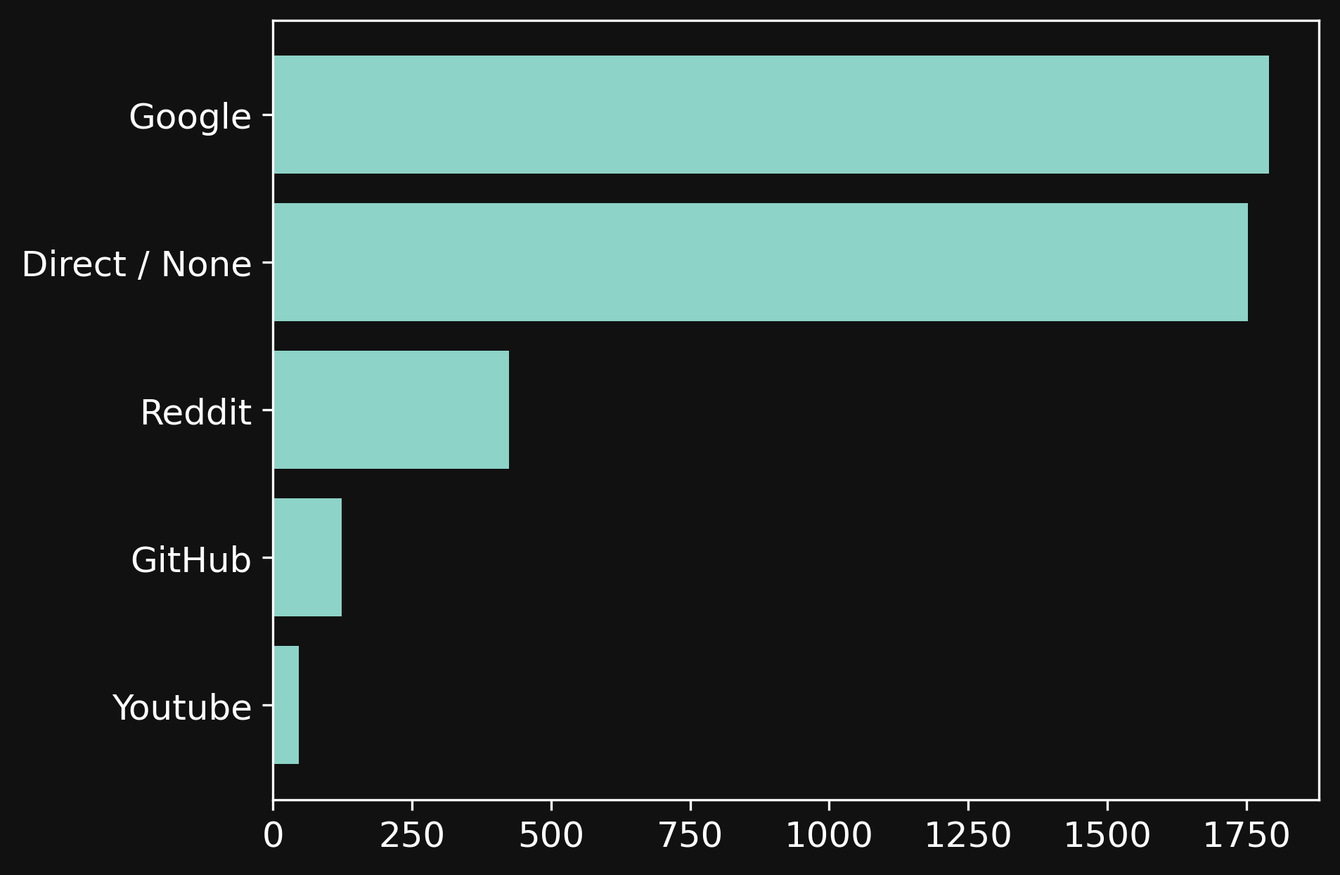
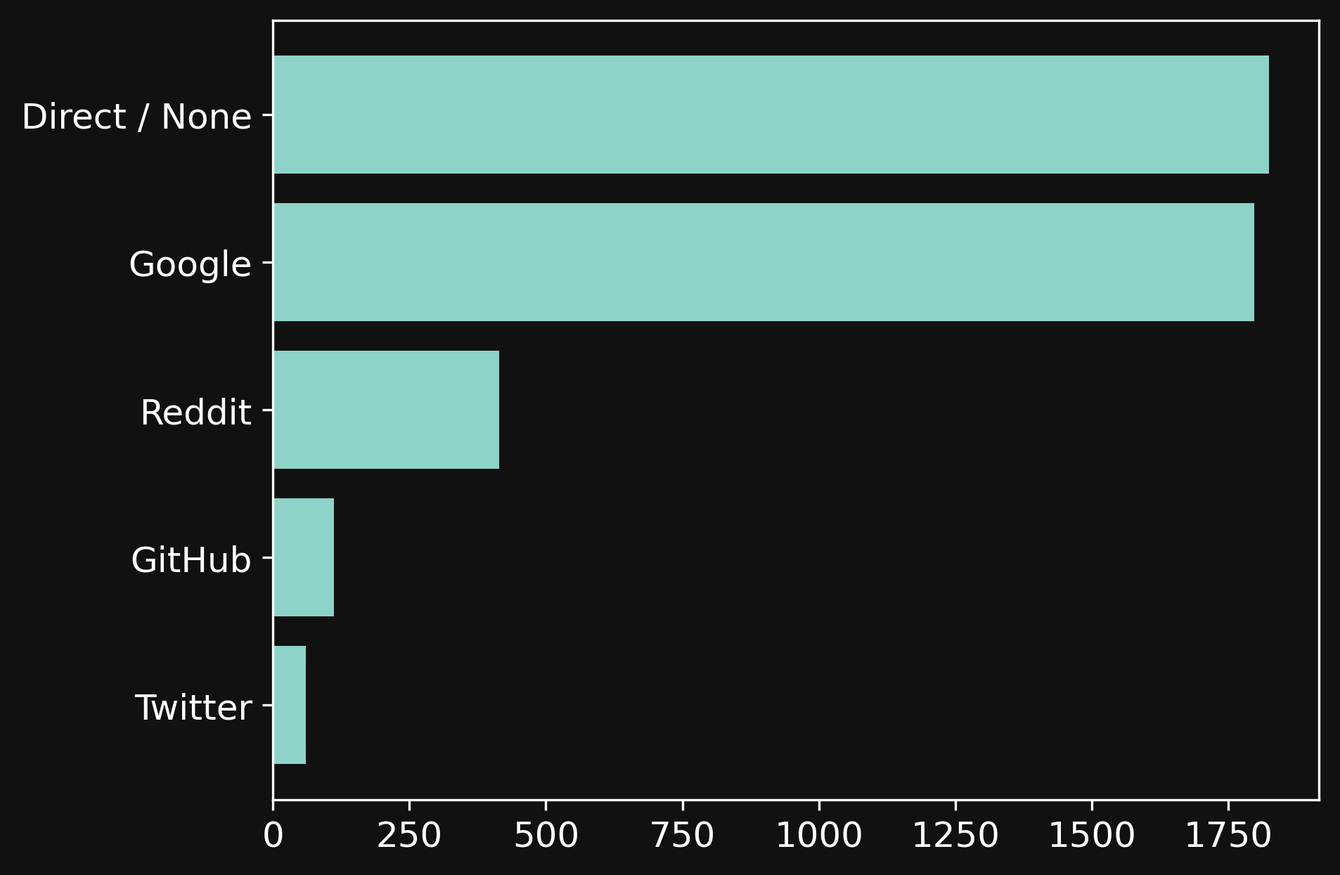
deploy: 194e06df29a75530cbd25c3b88f477b06a4fee5e

diff --git a/about/index.html b/about/index.html
@@ -1,4 +1,4 @@
-<!doctype html><html lang=en dir=auto><head><meta charset=utf-8><meta http-equiv=x-ua-compatible content="IE=edge"><meta name=viewport content="width=device-width,initial-scale=1,shrink-to-fit=no"><meta name=robots content="index, follow"><title>About | Navendu Pottekkat</title><meta name=keywords content><meta name=description content="About Navendu Pottekkat and his blog."><meta name=author content="Navendu Pottekkat"><link rel=canonical href=https://navendu.me/about/><script defer data-domain=navendu.me src=/misc/js/script.js data-api=/misc/api/event></script><script>window.plausible=window.plausible||function(){(window.plausible.q=window.plausible.q||[]).push(arguments)}</script><script></script><link crossorigin=anonymous href=/assets/css/stylesheet.66e3e513d75c2ff303648a5691fa6787b3c8f1dc4b3307618713a4dc494f0696.css integrity="sha256-ZuPlE9dcL/MDZIpWkfpnh7PI8dxLMwdhhxOk3ElPBpY=" rel="preload stylesheet" as=style><script src=https://ajax.googleapis.com/ajax/libs/jquery/3.5.1/jquery.min.js></script><script defer crossorigin=anonymous src=/assets/js/highlight.f413e19d0714851f6474e7ee9632408e58ac146fbdbe62747134bea2fa3415e0.js integrity="sha256-9BPhnQcUhR9kdOfuljJAjlisFG+9vmJ0cTS+ovo0FeA=" onload=hljs.initHighlightingOnLoad()></script><link rel=icon href=https://navendu.me/favicon.ico><link rel=icon type=image/png sizes=16x16 href=https://navendu.me/favicon-16x16.png><link rel=icon type=image/png sizes=32x32 href=https://navendu.me/favicon-32x32.png><link rel=apple-touch-icon href=https://navendu.me/apple-touch-icon.png><link rel=mask-icon href=https://navendu.me/safari-pinned-tab.svg><meta name=theme-color content="#2e2e33"><meta name=msapplication-TileColor content="#2e2e33"><noscript><style>#theme-toggle,.top-link{display:none}</style></noscript><meta property="og:title" content="About"><meta property="og:description" content="About Navendu Pottekkat and his blog."><meta property="og:type" content="article"><meta property="og:url" content="https://navendu.me/about/"><meta property="og:image" content="https://navendu.me/images/preview.png"><meta property="article:section" content><meta property="article:modified_time" content="2023-07-25T11:32:13+05:30"><meta property="og:site_name" content="Navendu Pottekkat"><meta name=twitter:card content="summary_large_image"><meta name=twitter:image content="https://navendu.me/images/preview.png"><meta name=twitter:title content="About"><meta name=twitter:description content="About Navendu Pottekkat and his blog."><script type=application/ld+json>{"@context":"https://schema.org","@type":"BreadcrumbList","itemListElement":[{"@type":"ListItem","position":1,"name":"About","item":"https://navendu.me/about/"}]}</script><script type=application/ld+json>{"@context":"https://schema.org","@type":"BlogPosting","headline":"About","name":"About","description":"About Navendu Pottekkat and his blog.","keywords":[],"articleBody":"About This Blog /stats\nThis blog is a window into my world as an open source maintainer and an amateur policy analyst.\nI write about a wide range of topics, from in-depth tutorials for projects that keep me up at night to the goals in life that keep me inspired.\nI also try to write daily, but fair warning: I don’t stop to edit these.\nUnless mentioned otherwise, all material in this blog is licensed under CC BY-SA 4.0, and the source code of this website is available under the MIT license.\nEthics Statement I don’t accept any form of payment to write about a product or a company. The products I write about are the ones I work on and/or believe in strongly.\nI use analytics to help me learn and improve my future articles. This blog uses Plausible Analytics and does not collect personal data or personally identifiable information.\nAbout Me I work full-time in maintaining Apache APISIX. Formerly, I maintained two CNCF projects.\nI work primarily on cloud native/Kubernetes, API gateways, and service meshes. I write and occasionally give talks (what am I doing now?).\nThe lines between my work and personal life are blurry, but outside of this, I enjoy reading, playing my bass, and riding my motorcycles. If you want to know more about me, here’s my story.\nTravel I have been traveling a lot for work and pleasure lately. The only reason I haven’t traveled more in the last few years is because my passport sucks. It takes a lot of effort to apply for a visa, and I’m under a lot of stress after I submit my visa application, waiting to know if I can travel.\nMy European, American, and Singaporean friends have relentlessly heard me rant about this. I don’t plan to stop because it is the most limiting thing in the modern world and probably one of the only reasons I envy people in rich countries with better passports.\nStill, I have traveled to all these countries, and I plan to keep traveling: 🇸🇬 🇨🇳 🇦🇪 🇱🇰 🇮🇪 🇧🇭 🇲🇾\nI have yet to go to a lot of places in India (next year 🤞). And I have traveled to all districts in Kerala.\nContact You can reach out to me at navendu@apache.org\nGPG Key To encrypt messages, please use my public key:\n-----BEGIN PGP PUBLIC KEY BLOCK----- mQINBGNGjG8BEADiEYqEeEWqs5/qvHGI2sGYI1y0FL5ctCUzDUjeo1pyWbT038AC jT1ni3bp9s3eP883sU08f0MyP0jilPq2DLj4lb26RTRQSxEo2c33Jj2JO/+hBP5h mEbhEa/gxzyF7RLbN0ZgtbAQVPoqxjyESvTUIQ+FvKH6eeeLktwxtdvgxuNCHOAt i5vFN48DkBdXzpCGgpo4wwFCwD+uT6jYWN33+vj3fRhvZqHrRmB1ZP7D1YpPEuE3 48cAiv3SdEtAfB7aVNNRKSDonoge2ad0aNL4hwfLgO2rOcV66vv5MdJ0QKjDOee9 SN4KcuszjtRbPClBtu/LI0gesZ3tt+EZKoAWGlQ3ythALed2t3z+yivV0XssfG/x wYTpXDzuZHjEP8v2MSI4RGEhSS06JHLt0G2CuyxBFieAq5NAozivH7n9w9ipIURo y3/1jigowGcLgrEbjsHGyou/eTtq2/G1ihvN1Oh9VcF05P3Z42vC0Yz9PqT9j+ZZ PXfE09u+1PJWWd80WF9DPSDYcrM58iP4uEDxvT61+b299bTksUQ4tcWeXYnvvOEc mZ2FoSrx6d9bIGnzk8g/77fetHR0vPY1+RvlJgG7vGPF0qhNiacubRqhW4RlcjQe HhkzAw2kQA7M8c6I1JbDaq5iAKfl8PDyEdgZ5dUFSg1/AP2EKOH8RDvUFwARAQAB tDdOYXZlbmR1IFBvdHRla2thdCAoR2l0SHViIGdwZyBrZXkpIDxuYXZlbmR1QGFw YWNoZS5vcmc+iQJRBBMBCAA7FiEEKdXqLnhjBRbrljSY8tOzMEmkVR0FAmNGjG8C GwMFCwkIBwICIgIGFQoJCAsCBBYCAwECHgcCF4AACgkQ8tOzMEmkVR0mWw/6AsTr kZbHgrUIYoo+a6aXLU68dpBSEGcpT5gGyhSLuhFMpKxuI2LDSZX/GwKXy1l27z5t xrLParTB2L5o+9/W8TYI1ukejod90RINLwl4PTnO5pizrF9pfgJD9BK6YGuVErJZ 8B8CX7XOQas25b7fFgKW3svRD8ac6gVF+ncWXc1KkJ67oIccTClIv+mvrZOVrgj8 xZ+UqYc3eoYC197Eaul2BuxrhMekkWOvaidbt65xJjhf0DATMy9AGJPk3L+P0LAH 0L9eJjnQsTwWRrO2PlcFlpMOObnlSGflH4mY+YHjqTKK7nL4t8w7oIV6Z8K3Xjj0 V8VSPM+I81hj4dSN9WDPPJPixOvulkC8MFzYCh9SNDMIVsBCOjogEChbiXWEfhzu lqDKwmonPf8z4BwteR6JpBZEs4ZEhpQDHEK4/4KT609V2qSnndQodOlkqUm8MVbj 03D4XMBobnT+az12KyuT3fEcEdI4D/dOBQNvuTTMqXhQPMx7Ygv/koX3VSSKdpkm f/JXY6Pynol9ILwSW4k8aFvxP1EsosXbMRsACQvsJHbYVXy2vKtW/yj4PUB7om08 EtfoghczIBpvMLzHTJHFsG61GmbqWQsnGGUXygqfZDvbjAASIrxoXplqKztVRirw ZtiTto2Sze6aWDXbedw5bOZTQMcwl732t86Ogae5Ag0EY0aMbwEQANuqc4xwhIAI Ke4R/9ePydC9bU7EKul2ea3KwEuCvU+i6Q/bLMBingLnrzyEISi1qh/dUGM9t24y jyOfkvBYgOXDndtpcxK7+nT3m/BJwqTWXNXvQwG6pCSvXRlnLf29UVK8b2ypMvMC yCoDNkTilb+ut/zCHT8pqRg0hmpr6wwdOQSQJFmr8W0JEOy77kP4qNKdQNFOtjsA s6NQbVZcBlKkyhIk7TV/iXZYv9f7ew2afzfT0uD8bpDO6r1OMsgMJOZRNkYWhFVZ YdAaDwts6CCeQ0iYZ9DdCX5akPdUD9am02TMf0aS0pF06tp16s5YixTDk0+C7JXj meZiWLTJxj3b7ExxibkchN1GWKPbBp3vTeKK9t3BDRri1pevWM97z6BDK3Ek7i7x /uSO2pu6WtK3NKmlXwibdsZfo9wESMpfOVQyl3tj2RX2DQOx6kDSqPHce56GVF0/ 9IZfWP+mQthgpTnlQCUJ4mA7jB2Ui7VHPSBVx58OZxPdsr55r0f6S5fjbAyXNkuB xiUvUJdzyKLtQX3iUUR6wgzdW5t2eqm4lUnz+UzmJFqXdCbPHLlMQjvEXTM2tVVM yyWxtcOAfTgXLHDcAMyqFP5HiXt8TrF3z2wQssd5l7+UEJSQOAxrg8c1sicBwjcE gJboaPCbjIKj+yZP8bjUU6cUC9FbiiJFABEBAAGJAjYEGAEIACAWIQQp1eoueGMF FuuWNJjy07MwSaRVHQUCY0aMbwIbDAAKCRDy07MwSaRVHdI6D/9KQhe9flUXo1fD B3RUHdbsAmocj50M6J1X7Ge5EmhfXUtTKJIdZk+rnLebOBW9EZ9xF4zKyWvMOEjP VQwhbGd/fXXtF17pM9Kpg77MP1ukMUZufNtm7Bzp5/gaeWGgby9YmMeoplK3+Dpu AMHiKtQ7johAKrBKduvrbXIaeLAMNUAMKu9XKh75j2tPF7x7Kw77BKCgixMiQv4B tW9Pwoy6R+jhLu0EKa+reIBpW9+xpR06Bepww+ZD2Tya/y4uzYIm3x1UubambFCl fNLOLQpyz+vvoiRJUED67ta7OpI9VK4YDX9qPjvOEM6+lUvaFc6at5Sqnfjofdsa DCKb66Nb9WDEMruOMRGg2uEVljpr9cVo8JSsayXZNKbs7kia5576ufPrRajtTRP4 wECnfiKde/DwIQoNlokro4Tmi/Y9310bwU9XBxtFJvif6+Bh8cbfPkh+YjpnJt6+ G6z1RZc35yEd8AgHStI6IJYlNyPy8MKobxXWKAILlsYcMZG+DEBKojpkp2booQw7 j2d8fYgrLs/zwPpaT3kDotia1RioKUBCbLxMseZGzgAyiR4eQKzw4JLdkGDR+48b YC/jf5p6RBG+YXDICliVDL/ap9iyGAbggpaIWa0Wc8smWu3Ub0DVhxtzKRRuNmWt pbi1/RzPqocmwMes4lBDig1uSDpGwg== =ah6a -----END PGP PUBLIC KEY BLOCK----- You can verify my public key using my fingerprint:\n29D5 EA2E 7863 0516 EB96 3498 F2D3 B330 49A4 551D ","wordCount":"470","inLanguage":"en","datePublished":"0001-01-01T00:00:00Z","dateModified":"2023-07-25T11:32:13+05:30","author":{"@type":"Person","name":"Navendu Pottekkat"},"mainEntityOfPage":{"@type":"WebPage","@id":"https://navendu.me/about/"},"publisher":{"@type":"Person","name":"Navendu Pottekkat","logo":{"@type":"ImageObject","url":"https://navendu.me/favicon.ico"}}}</script></head><body class=dark id=top><header class=header><nav class=nav><div class=logo><a href=https://navendu.me/ accesskey=h title="Navendu Pottekkat (Alt + H)">Navendu Pottekkat</a><div class=logo-switches></div></div><ul id=menu><li><a href=https://navendu.me/archives/ title=Archives><span>Archives</span></a></li><li><a href=https://navendu.me/categories/ title=Categories><span>Categories</span></a></li><li><a href=https://navendu.me/categories/daily-dose-of-pottekkat/ title="Daily Logs"><span>Daily Logs</span></a></li><li><a href=https://navendu.me/about/ title=About><span class=active>About</span></a></li><li><a href=https://navendu.me/subscribe/ title=Subscribe><span>Subscribe</span></a></li></ul></nav></header><main class=main><article class=post-single><header class=post-header><h1 class=post-title>About</h1></header><div class=post-content><h2 id=about-this-blog>About This Blog<a hidden class=anchor aria-hidden=true href=#about-this-blog>#</a></h2><p><a href=/stats/>/stats</a></p><p>This blog is a window into my world as an open source maintainer and an amateur policy analyst.</p><p>I write about a <a href=/categories/>wide range of topics</a>, from in-depth <a href=/tags/apache-apisix/>tutorials for projects</a> that keep me up at night to the <a href=/tags/life/>goals in life</a> that keep me inspired.</p><p>I also try to <a href=/categories/daily-dose-of-pottekkat/>write daily</a>, but fair warning: I don&rsquo;t stop to edit these.</p><p>Unless mentioned otherwise, all material in this blog is licensed under <a href=http://creativecommons.org/licenses/by-sa/4.0 target=_blank>CC BY-SA 4.0</a>, and the <a href=https://github.com/navendu-pottekkat/navendu-pottekkat.github.io target=_blank>source code</a> of this website is available under the <a href=https://github.com/navendu-pottekkat/navendu-pottekkat.github.io/blob/hugo/LICENSE target=_blank>MIT license</a>.</p><h3 id=ethics-statement>Ethics Statement<a hidden class=anchor aria-hidden=true href=#ethics-statement>#</a></h3><p>I don&rsquo;t accept any form of payment to write about a product or a company. The products I write about are the ones I work on and/or believe in strongly.</p><p>I use <a href=/stats/>analytics</a> to help me learn and improve my future articles. This blog uses <a href=https://plausible.io/privacy-focused-web-analytics target=_blank>Plausible Analytics</a> and does not collect personal data or personally identifiable information.</p><h2 id=about-me>About Me<a hidden class=anchor aria-hidden=true href=#about-me>#</a></h2><p>I work full-time in maintaining <a href=https://github.com/apache/apisix target=_blank>Apache APISIX</a>. Formerly, I maintained two <a href=https://en.wikipedia.org/wiki/Cloud_Native_Computing_Foundation target=_blank>CNCF</a> projects.</p><p>I work primarily on cloud native/Kubernetes, API gateways, and service meshes. I <a href=/categories/featured/>write</a> and occasionally give <a href="https://youtube.com/playlist?list=PLUVkO7d15olRgs1rU6scvszk0DB5HxKdu" target=_blank>talks</a> (<a href=/now/>what am I doing now?</a>).</p><p>The lines between my work and personal life are blurry, but outside of this, I enjoy reading, playing my bass, and riding my motorcycles. If you want to know more about me, here&rsquo;s <a href=/story/>my story</a>.</p><h3 id=travel>Travel<a hidden class=anchor aria-hidden=true href=#travel>#</a></h3><p>I have been traveling a lot for work and pleasure lately. The only reason I haven&rsquo;t traveled more in the last few years is because my passport sucks. It takes a lot of effort to apply for a visa, and I&rsquo;m under a lot of stress after I submit my visa application, waiting to know if I can travel.</p><p>My European, American, and Singaporean friends have relentlessly heard me rant about this. I don&rsquo;t plan to stop because it is the most limiting thing in the modern world and probably one of the only reasons I envy people in rich countries with better passports.</p><p>Still, I have traveled to all these countries, and I plan to keep traveling: 🇸🇬 🇨🇳 🇦🇪 🇱🇰 🇮🇪 🇧🇭 🇲🇾</p><p>I have yet to go to a lot of places in India (next year 🤞). And I have traveled to all districts in Kerala.</p><h2 id=contact>Contact<a hidden class=anchor aria-hidden=true href=#contact>#</a></h2><p>You can reach out to me at <a href=mailto:navendu@apache.org>navendu@apache.org</a></p><h3 id=gpg-key>GPG Key<a hidden class=anchor aria-hidden=true href=#gpg-key>#</a></h3><p>To encrypt messages, please use my public key:</p><div class=highlight><pre style=color:#f8f8f2;background-color:#272822;-moz-tab-size:4;-o-tab-size:4;tab-size:4><code class=language-text data-lang=text>-----BEGIN PGP PUBLIC KEY BLOCK-----
+<!doctype html><html lang=en dir=auto><head><meta charset=utf-8><meta http-equiv=x-ua-compatible content="IE=edge"><meta name=viewport content="width=device-width,initial-scale=1,shrink-to-fit=no"><meta name=robots content="index, follow"><title>About | Navendu Pottekkat</title><meta name=keywords content><meta name=description content="About Navendu Pottekkat and his blog."><meta name=author content="Navendu Pottekkat"><link rel=canonical href=https://navendu.me/about/><script defer data-domain=navendu.me src=/misc/js/script.js data-api=/misc/api/event></script><script>window.plausible=window.plausible||function(){(window.plausible.q=window.plausible.q||[]).push(arguments)}</script><script></script><link crossorigin=anonymous href=/assets/css/stylesheet.66e3e513d75c2ff303648a5691fa6787b3c8f1dc4b3307618713a4dc494f0696.css integrity="sha256-ZuPlE9dcL/MDZIpWkfpnh7PI8dxLMwdhhxOk3ElPBpY=" rel="preload stylesheet" as=style><script src=https://ajax.googleapis.com/ajax/libs/jquery/3.5.1/jquery.min.js></script><script defer crossorigin=anonymous src=/assets/js/highlight.f413e19d0714851f6474e7ee9632408e58ac146fbdbe62747134bea2fa3415e0.js integrity="sha256-9BPhnQcUhR9kdOfuljJAjlisFG+9vmJ0cTS+ovo0FeA=" onload=hljs.initHighlightingOnLoad()></script><link rel=icon href=https://navendu.me/favicon.ico><link rel=icon type=image/png sizes=16x16 href=https://navendu.me/favicon-16x16.png><link rel=icon type=image/png sizes=32x32 href=https://navendu.me/favicon-32x32.png><link rel=apple-touch-icon href=https://navendu.me/apple-touch-icon.png><link rel=mask-icon href=https://navendu.me/safari-pinned-tab.svg><meta name=theme-color content="#2e2e33"><meta name=msapplication-TileColor content="#2e2e33"><noscript><style>#theme-toggle,.top-link{display:none}</style></noscript><meta property="og:title" content="About"><meta property="og:description" content="About Navendu Pottekkat and his blog."><meta property="og:type" content="article"><meta property="og:url" content="https://navendu.me/about/"><meta property="og:image" content="https://navendu.me/images/preview.png"><meta property="article:section" content><meta property="article:modified_time" content="2023-08-04T20:02:48+05:30"><meta property="og:site_name" content="Navendu Pottekkat"><meta name=twitter:card content="summary_large_image"><meta name=twitter:image content="https://navendu.me/images/preview.png"><meta name=twitter:title content="About"><meta name=twitter:description content="About Navendu Pottekkat and his blog."><script type=application/ld+json>{"@context":"https://schema.org","@type":"BreadcrumbList","itemListElement":[{"@type":"ListItem","position":1,"name":"About","item":"https://navendu.me/about/"}]}</script><script type=application/ld+json>{"@context":"https://schema.org","@type":"BlogPosting","headline":"About","name":"About","description":"About Navendu Pottekkat and his blog.","keywords":[],"articleBody":"About This Blog /stats\nThis blog is a window into my world as an open source maintainer and an amateur policy analyst.\nI write about a wide range of topics, from in-depth tutorials for projects that keep me up at night to the goals in life that keep me inspired.\nI also try to write daily, but fair warning: I don’t stop to edit these.\nUnless mentioned otherwise, all material in this blog is licensed under CC BY-SA 4.0, and the source code of this website is available under the MIT license.\nEthics Statement I don’t accept any form of payment to write about a product or a company. The products I write about are the ones I work on and/or believe in strongly.\nI use analytics to help me learn and improve my future articles. This blog uses Plausible Analytics and does not collect personal data or personally identifiable information.\nAbout Me I work full-time in maintaining Apache APISIX. Formerly, I maintained two CNCF projects.\nI work primarily on cloud native/Kubernetes, API gateways, and service meshes. I write and occasionally give talks (what am I doing now?).\nThe lines between my work and personal life are blurry, but outside of this, I enjoy reading, playing my bass, and riding my motorcycles. If you want to know more about me, here’s my story.\nTravel I have been traveling a lot for work and pleasure lately. The only reason I haven’t traveled more in the last few years is because my passport sucks. It takes a lot of effort to apply for a visa, and I’m under a lot of stress after I submit my visa application, waiting to know if I can travel.\nMy European, American, and Singaporean friends have relentlessly heard me rant about this. I don’t plan to stop because it is the most limiting thing in the modern world and probably one of the only reasons I envy people in rich countries with better passports.\nStill, I have traveled to all these countries, and I plan to keep traveling: 🇸🇬 🇨🇳 🇦🇪 🇱🇰 🇮🇪 🇧🇭 🇲🇾 🇹🇼\nI have yet to go to a lot of places in India (next year 🤞). And I have traveled to all districts in Kerala.\nContact You can reach out to me at navendu@apache.org\nGPG Key To encrypt messages, please use my public key:\n-----BEGIN PGP PUBLIC KEY BLOCK----- mQINBGNGjG8BEADiEYqEeEWqs5/qvHGI2sGYI1y0FL5ctCUzDUjeo1pyWbT038AC jT1ni3bp9s3eP883sU08f0MyP0jilPq2DLj4lb26RTRQSxEo2c33Jj2JO/+hBP5h mEbhEa/gxzyF7RLbN0ZgtbAQVPoqxjyESvTUIQ+FvKH6eeeLktwxtdvgxuNCHOAt i5vFN48DkBdXzpCGgpo4wwFCwD+uT6jYWN33+vj3fRhvZqHrRmB1ZP7D1YpPEuE3 48cAiv3SdEtAfB7aVNNRKSDonoge2ad0aNL4hwfLgO2rOcV66vv5MdJ0QKjDOee9 SN4KcuszjtRbPClBtu/LI0gesZ3tt+EZKoAWGlQ3ythALed2t3z+yivV0XssfG/x wYTpXDzuZHjEP8v2MSI4RGEhSS06JHLt0G2CuyxBFieAq5NAozivH7n9w9ipIURo y3/1jigowGcLgrEbjsHGyou/eTtq2/G1ihvN1Oh9VcF05P3Z42vC0Yz9PqT9j+ZZ PXfE09u+1PJWWd80WF9DPSDYcrM58iP4uEDxvT61+b299bTksUQ4tcWeXYnvvOEc mZ2FoSrx6d9bIGnzk8g/77fetHR0vPY1+RvlJgG7vGPF0qhNiacubRqhW4RlcjQe HhkzAw2kQA7M8c6I1JbDaq5iAKfl8PDyEdgZ5dUFSg1/AP2EKOH8RDvUFwARAQAB tDdOYXZlbmR1IFBvdHRla2thdCAoR2l0SHViIGdwZyBrZXkpIDxuYXZlbmR1QGFw YWNoZS5vcmc+iQJRBBMBCAA7FiEEKdXqLnhjBRbrljSY8tOzMEmkVR0FAmNGjG8C GwMFCwkIBwICIgIGFQoJCAsCBBYCAwECHgcCF4AACgkQ8tOzMEmkVR0mWw/6AsTr kZbHgrUIYoo+a6aXLU68dpBSEGcpT5gGyhSLuhFMpKxuI2LDSZX/GwKXy1l27z5t xrLParTB2L5o+9/W8TYI1ukejod90RINLwl4PTnO5pizrF9pfgJD9BK6YGuVErJZ 8B8CX7XOQas25b7fFgKW3svRD8ac6gVF+ncWXc1KkJ67oIccTClIv+mvrZOVrgj8 xZ+UqYc3eoYC197Eaul2BuxrhMekkWOvaidbt65xJjhf0DATMy9AGJPk3L+P0LAH 0L9eJjnQsTwWRrO2PlcFlpMOObnlSGflH4mY+YHjqTKK7nL4t8w7oIV6Z8K3Xjj0 V8VSPM+I81hj4dSN9WDPPJPixOvulkC8MFzYCh9SNDMIVsBCOjogEChbiXWEfhzu lqDKwmonPf8z4BwteR6JpBZEs4ZEhpQDHEK4/4KT609V2qSnndQodOlkqUm8MVbj 03D4XMBobnT+az12KyuT3fEcEdI4D/dOBQNvuTTMqXhQPMx7Ygv/koX3VSSKdpkm f/JXY6Pynol9ILwSW4k8aFvxP1EsosXbMRsACQvsJHbYVXy2vKtW/yj4PUB7om08 EtfoghczIBpvMLzHTJHFsG61GmbqWQsnGGUXygqfZDvbjAASIrxoXplqKztVRirw ZtiTto2Sze6aWDXbedw5bOZTQMcwl732t86Ogae5Ag0EY0aMbwEQANuqc4xwhIAI Ke4R/9ePydC9bU7EKul2ea3KwEuCvU+i6Q/bLMBingLnrzyEISi1qh/dUGM9t24y jyOfkvBYgOXDndtpcxK7+nT3m/BJwqTWXNXvQwG6pCSvXRlnLf29UVK8b2ypMvMC yCoDNkTilb+ut/zCHT8pqRg0hmpr6wwdOQSQJFmr8W0JEOy77kP4qNKdQNFOtjsA s6NQbVZcBlKkyhIk7TV/iXZYv9f7ew2afzfT0uD8bpDO6r1OMsgMJOZRNkYWhFVZ YdAaDwts6CCeQ0iYZ9DdCX5akPdUD9am02TMf0aS0pF06tp16s5YixTDk0+C7JXj meZiWLTJxj3b7ExxibkchN1GWKPbBp3vTeKK9t3BDRri1pevWM97z6BDK3Ek7i7x /uSO2pu6WtK3NKmlXwibdsZfo9wESMpfOVQyl3tj2RX2DQOx6kDSqPHce56GVF0/ 9IZfWP+mQthgpTnlQCUJ4mA7jB2Ui7VHPSBVx58OZxPdsr55r0f6S5fjbAyXNkuB xiUvUJdzyKLtQX3iUUR6wgzdW5t2eqm4lUnz+UzmJFqXdCbPHLlMQjvEXTM2tVVM yyWxtcOAfTgXLHDcAMyqFP5HiXt8TrF3z2wQssd5l7+UEJSQOAxrg8c1sicBwjcE gJboaPCbjIKj+yZP8bjUU6cUC9FbiiJFABEBAAGJAjYEGAEIACAWIQQp1eoueGMF FuuWNJjy07MwSaRVHQUCY0aMbwIbDAAKCRDy07MwSaRVHdI6D/9KQhe9flUXo1fD B3RUHdbsAmocj50M6J1X7Ge5EmhfXUtTKJIdZk+rnLebOBW9EZ9xF4zKyWvMOEjP VQwhbGd/fXXtF17pM9Kpg77MP1ukMUZufNtm7Bzp5/gaeWGgby9YmMeoplK3+Dpu AMHiKtQ7johAKrBKduvrbXIaeLAMNUAMKu9XKh75j2tPF7x7Kw77BKCgixMiQv4B tW9Pwoy6R+jhLu0EKa+reIBpW9+xpR06Bepww+ZD2Tya/y4uzYIm3x1UubambFCl fNLOLQpyz+vvoiRJUED67ta7OpI9VK4YDX9qPjvOEM6+lUvaFc6at5Sqnfjofdsa DCKb66Nb9WDEMruOMRGg2uEVljpr9cVo8JSsayXZNKbs7kia5576ufPrRajtTRP4 wECnfiKde/DwIQoNlokro4Tmi/Y9310bwU9XBxtFJvif6+Bh8cbfPkh+YjpnJt6+ G6z1RZc35yEd8AgHStI6IJYlNyPy8MKobxXWKAILlsYcMZG+DEBKojpkp2booQw7 j2d8fYgrLs/zwPpaT3kDotia1RioKUBCbLxMseZGzgAyiR4eQKzw4JLdkGDR+48b YC/jf5p6RBG+YXDICliVDL/ap9iyGAbggpaIWa0Wc8smWu3Ub0DVhxtzKRRuNmWt pbi1/RzPqocmwMes4lBDig1uSDpGwg== =ah6a -----END PGP PUBLIC KEY BLOCK----- You can verify my public key using my fingerprint:\n29D5 EA2E 7863 0516 EB96 3498 F2D3 B330 49A4 551D ","wordCount":"471","inLanguage":"en","datePublished":"0001-01-01T00:00:00Z","dateModified":"2023-08-04T20:02:48+05:30","author":{"@type":"Person","name":"Navendu Pottekkat"},"mainEntityOfPage":{"@type":"WebPage","@id":"https://navendu.me/about/"},"publisher":{"@type":"Person","name":"Navendu Pottekkat","logo":{"@type":"ImageObject","url":"https://navendu.me/favicon.ico"}}}</script></head><body class=dark id=top><header class=header><nav class=nav><div class=logo><a href=https://navendu.me/ accesskey=h title="Navendu Pottekkat (Alt + H)">Navendu Pottekkat</a><div class=logo-switches></div></div><ul id=menu><li><a href=https://navendu.me/archives/ title=Archives><span>Archives</span></a></li><li><a href=https://navendu.me/categories/ title=Categories><span>Categories</span></a></li><li><a href=https://navendu.me/categories/daily-dose-of-pottekkat/ title="Daily Logs"><span>Daily Logs</span></a></li><li><a href=https://navendu.me/about/ title=About><span class=active>About</span></a></li><li><a href=https://navendu.me/subscribe/ title=Subscribe><span>Subscribe</span></a></li></ul></nav></header><main class=main><article class=post-single><header class=post-header><h1 class=post-title>About</h1></header><div class=post-content><h2 id=about-this-blog>About This Blog<a hidden class=anchor aria-hidden=true href=#about-this-blog>#</a></h2><p><a href=/stats/>/stats</a></p><p>This blog is a window into my world as an open source maintainer and an amateur policy analyst.</p><p>I write about a <a href=/categories/>wide range of topics</a>, from in-depth <a href=/tags/apache-apisix/>tutorials for projects</a> that keep me up at night to the <a href=/tags/life/>goals in life</a> that keep me inspired.</p><p>I also try to <a href=/categories/daily-dose-of-pottekkat/>write daily</a>, but fair warning: I don&rsquo;t stop to edit these.</p><p>Unless mentioned otherwise, all material in this blog is licensed under <a href=http://creativecommons.org/licenses/by-sa/4.0 target=_blank>CC BY-SA 4.0</a>, and the <a href=https://github.com/navendu-pottekkat/navendu-pottekkat.github.io target=_blank>source code</a> of this website is available under the <a href=https://github.com/navendu-pottekkat/navendu-pottekkat.github.io/blob/hugo/LICENSE target=_blank>MIT license</a>.</p><h3 id=ethics-statement>Ethics Statement<a hidden class=anchor aria-hidden=true href=#ethics-statement>#</a></h3><p>I don&rsquo;t accept any form of payment to write about a product or a company. The products I write about are the ones I work on and/or believe in strongly.</p><p>I use <a href=/stats/>analytics</a> to help me learn and improve my future articles. This blog uses <a href=https://plausible.io/privacy-focused-web-analytics target=_blank>Plausible Analytics</a> and does not collect personal data or personally identifiable information.</p><h2 id=about-me>About Me<a hidden class=anchor aria-hidden=true href=#about-me>#</a></h2><p>I work full-time in maintaining <a href=https://github.com/apache/apisix target=_blank>Apache APISIX</a>. Formerly, I maintained two <a href=https://en.wikipedia.org/wiki/Cloud_Native_Computing_Foundation target=_blank>CNCF</a> projects.</p><p>I work primarily on cloud native/Kubernetes, API gateways, and service meshes. I <a href=/categories/featured/>write</a> and occasionally give <a href="https://youtube.com/playlist?list=PLUVkO7d15olRgs1rU6scvszk0DB5HxKdu" target=_blank>talks</a> (<a href=/now/>what am I doing now?</a>).</p><p>The lines between my work and personal life are blurry, but outside of this, I enjoy reading, playing my bass, and riding my motorcycles. If you want to know more about me, here&rsquo;s <a href=/story/>my story</a>.</p><h3 id=travel>Travel<a hidden class=anchor aria-hidden=true href=#travel>#</a></h3><p>I have been traveling a lot for work and pleasure lately. The only reason I haven&rsquo;t traveled more in the last few years is because my passport sucks. It takes a lot of effort to apply for a visa, and I&rsquo;m under a lot of stress after I submit my visa application, waiting to know if I can travel.</p><p>My European, American, and Singaporean friends have relentlessly heard me rant about this. I don&rsquo;t plan to stop because it is the most limiting thing in the modern world and probably one of the only reasons I envy people in rich countries with better passports.</p><p>Still, I have traveled to all these countries, and I plan to keep traveling: 🇸🇬 🇨🇳 🇦🇪 🇱🇰 🇮🇪 🇧🇭 🇲🇾 🇹🇼</p><p>I have yet to go to a lot of places in India (next year 🤞). And I have traveled to all districts in Kerala.</p><h2 id=contact>Contact<a hidden class=anchor aria-hidden=true href=#contact>#</a></h2><p>You can reach out to me at <a href=mailto:navendu@apache.org>navendu@apache.org</a></p><h3 id=gpg-key>GPG Key<a hidden class=anchor aria-hidden=true href=#gpg-key>#</a></h3><p>To encrypt messages, please use my public key:</p><div class=highlight><pre style=color:#f8f8f2;background-color:#272822;-moz-tab-size:4;-o-tab-size:4;tab-size:4><code class=language-text data-lang=text>-----BEGIN PGP PUBLIC KEY BLOCK-----
 
[2 lines of base64/hex data omitted]

diff --git a/stats/index.html b/stats/index.html
@@ -1,7 +1,7 @@
-<!doctype html><html lang=en dir=auto><head><meta charset=utf-8><meta http-equiv=x-ua-compatible content="IE=edge"><meta name=viewport content="width=device-width,initial-scale=1,shrink-to-fit=no"><meta name=robots content="index, follow"><title>Stats | Navendu Pottekkat</title><meta name=keywords content><meta name=description content="Statistics."><meta name=author content="Navendu Pottekkat"><link rel=canonical href=https://navendu.me/stats/><script defer data-domain=navendu.me src=/misc/js/script.js data-api=/misc/api/event></script><script>window.plausible=window.plausible||function(){(window.plausible.q=window.plausible.q||[]).push(arguments)}</script><script></script><link crossorigin=anonymous href=/assets/css/stylesheet.66e3e513d75c2ff303648a5691fa6787b3c8f1dc4b3307618713a4dc494f0696.css integrity="sha256-ZuPlE9dcL/MDZIpWkfpnh7PI8dxLMwdhhxOk3ElPBpY=" rel="preload stylesheet" as=style><script src=https://ajax.googleapis.com/ajax/libs/jquery/3.5.1/jquery.min.js></script><script defer crossorigin=anonymous src=/assets/js/highlight.f413e19d0714851f6474e7ee9632408e58ac146fbdbe62747134bea2fa3415e0.js integrity="sha256-9BPhnQcUhR9kdOfuljJAjlisFG+9vmJ0cTS+ovo0FeA=" onload=hljs.initHighlightingOnLoad()></script><link rel=icon href=https://navendu.me/favicon.ico><link rel=icon type=image/png sizes=16x16 href=https://navendu.me/favicon-16x16.png><link rel=icon type=image/png sizes=32x32 href=https://navendu.me/favicon-32x32.png><link rel=apple-touch-icon href=https://navendu.me/apple-touch-icon.png><link rel=mask-icon href=https://navendu.me/safari-pinned-tab.svg><meta name=theme-color content="#2e2e33"><meta name=msapplication-TileColor content="#2e2e33"><noscript><style>#theme-toggle,.top-link{display:none}</style></noscript><meta property="og:title" content="Stats"><meta property="og:description" content="Statistics."><meta property="og:type" content="article"><meta property="og:url" content="https://navendu.me/stats/"><meta property="og:image" content="https://navendu.me/images/preview.png"><meta property="article:section" content><meta property="article:modified_time" content="2023-04-01T17:09:13+05:30"><meta property="og:site_name" content="Navendu Pottekkat"><meta name=twitter:card content="summary_large_image"><meta name=twitter:image content="https://navendu.me/images/preview.png"><meta name=twitter:title content="Stats"><meta name=twitter:description content="Statistics."><script type=application/ld+json>{"@context":"https://schema.org","@type":"BreadcrumbList","itemListElement":[{"@type":"ListItem","position":1,"name":"Stats","item":"https://navendu.me/stats/"}]}</script><script type=application/ld+json>{"@context":"https://schema.org","@type":"BlogPosting","headline":"Stats","name":"Stats","description":"Statistics.","keywords":[],"articleBody":"This page is a work in progress.\nAll the code and content of this website are publicly available. So should the statistics.\nThis page contains data and charts/insights from the data that I think you, as readers of my blog, would find interesting/relevant.\nAs mentioned in my ethics statement, this blog does not collect personal data or personally identifiable information.\nAll data is from the past month (30 days) and will be updated daily.\n","wordCount":"74","inLanguage":"en","datePublished":"0001-01-01T00:00:00Z","dateModified":"2023-04-01T17:09:13+05:30","author":{"@type":"Person","name":"Navendu Pottekkat"},"mainEntityOfPage":{"@type":"WebPage","@id":"https://navendu.me/stats/"},"publisher":{"@type":"Person","name":"Navendu Pottekkat","logo":{"@type":"ImageObject","url":"https://navendu.me/favicon.ico"}}}</script></head><body class=dark id=top><header class=header><nav class=nav><div class=logo><a href=https://navendu.me/ accesskey=h title="Navendu Pottekkat (Alt + H)">Navendu Pottekkat</a><div class=logo-switches></div></div><ul id=menu><li><a href=https://navendu.me/archives/ title=Archives><span>Archives</span></a></li><li><a href=https://navendu.me/categories/ title=Categories><span>Categories</span></a></li><li><a href=https://navendu.me/categories/daily-dose-of-pottekkat/ title="Daily Logs"><span>Daily Logs</span></a></li><li><a href=https://navendu.me/about/ title=About><span>About</span></a></li><li><a href=https://navendu.me/subscribe/ title=Subscribe><span>Subscribe</span></a></li></ul></nav></header><main class=main><article class=post-single><header class=post-header><h1 class=post-title>Stats</h1></header><div class=post-content><section class=last-run><blockquote><p><i>Last updated at 9:21 PM, 28th July 2023 (+0530)</i></p></blockquote></section><p>This page is a work in progress.</p><p>All the code and content of this website are publicly available. So should the statistics.</p><p>This page contains data and charts/insights from the data that I think you, as readers of my blog, would find interesting/relevant.</p><p>As mentioned in my <a href=/about/#ethics-statement>ethics statement</a>, this blog <a href=https://plausible.io/privacy-focused-web-analytics target=_blank>does not collect</a> personal data or personally identifiable information.</p><p>All data is from the past month (30 days) and will be updated daily.</p><section class=stats><h2 id=visitors-by-country>Visitors by Country<a hidden class=anchor aria-hidden=true href=#visitors-by-country>#</a></h2><p>It's always amazing to see people from around the world reading my blog. Most visitors come from
-India, United States of America, Germany, and Nigeria.</p><figure class=align-center><img loading=lazy src=/images/stats/visitors-by-country.png#center alt="Chart showing the source of visitors over last one month."><figcaption>Stats from the last 30 days<p>Last updated at 9:21 PM, 28th July 2023 (+0530)</p></figcaption></figure><p>Shoutout to <a href=https://www.linkedin.com/in/christy-m-thomas/>Christy</a>, an actual GIS Engineer, who helped me create the chart above.</p><h2 id=visitors-per-day>Visitors per Day<a hidden class=anchor aria-hidden=true href=#visitors-per-day>#</a></h2><p>446 people visited the
+<!doctype html><html lang=en dir=auto><head><meta charset=utf-8><meta http-equiv=x-ua-compatible content="IE=edge"><meta name=viewport content="width=device-width,initial-scale=1,shrink-to-fit=no"><meta name=robots content="index, follow"><title>Stats | Navendu Pottekkat</title><meta name=keywords content><meta name=description content="Statistics."><meta name=author content="Navendu Pottekkat"><link rel=canonical href=https://navendu.me/stats/><script defer data-domain=navendu.me src=/misc/js/script.js data-api=/misc/api/event></script><script>window.plausible=window.plausible||function(){(window.plausible.q=window.plausible.q||[]).push(arguments)}</script><script></script><link crossorigin=anonymous href=/assets/css/stylesheet.66e3e513d75c2ff303648a5691fa6787b3c8f1dc4b3307618713a4dc494f0696.css integrity="sha256-ZuPlE9dcL/MDZIpWkfpnh7PI8dxLMwdhhxOk3ElPBpY=" rel="preload stylesheet" as=style><script src=https://ajax.googleapis.com/ajax/libs/jquery/3.5.1/jquery.min.js></script><script defer crossorigin=anonymous src=/assets/js/highlight.f413e19d0714851f6474e7ee9632408e58ac146fbdbe62747134bea2fa3415e0.js integrity="sha256-9BPhnQcUhR9kdOfuljJAjlisFG+9vmJ0cTS+ovo0FeA=" onload=hljs.initHighlightingOnLoad()></script><link rel=icon href=https://navendu.me/favicon.ico><link rel=icon type=image/png sizes=16x16 href=https://navendu.me/favicon-16x16.png><link rel=icon type=image/png sizes=32x32 href=https://navendu.me/favicon-32x32.png><link rel=apple-touch-icon href=https://navendu.me/apple-touch-icon.png><link rel=mask-icon href=https://navendu.me/safari-pinned-tab.svg><meta name=theme-color content="#2e2e33"><meta name=msapplication-TileColor content="#2e2e33"><noscript><style>#theme-toggle,.top-link{display:none}</style></noscript><meta property="og:title" content="Stats"><meta property="og:description" content="Statistics."><meta property="og:type" content="article"><meta property="og:url" content="https://navendu.me/stats/"><meta property="og:image" content="https://navendu.me/images/preview.png"><meta property="article:section" content><meta property="article:modified_time" content="2023-04-01T17:09:13+05:30"><meta property="og:site_name" content="Navendu Pottekkat"><meta name=twitter:card content="summary_large_image"><meta name=twitter:image content="https://navendu.me/images/preview.png"><meta name=twitter:title content="Stats"><meta name=twitter:description content="Statistics."><script type=application/ld+json>{"@context":"https://schema.org","@type":"BreadcrumbList","itemListElement":[{"@type":"ListItem","position":1,"name":"Stats","item":"https://navendu.me/stats/"}]}</script><script type=application/ld+json>{"@context":"https://schema.org","@type":"BlogPosting","headline":"Stats","name":"Stats","description":"Statistics.","keywords":[],"articleBody":"This page is a work in progress.\nAll the code and content of this website are publicly available. So should the statistics.\nThis page contains data and charts/insights from the data that I think you, as readers of my blog, would find interesting/relevant.\nAs mentioned in my ethics statement, this blog does not collect personal data or personally identifiable information.\nAll data is from the past month (30 days) and will be updated daily.\n","wordCount":"74","inLanguage":"en","datePublished":"0001-01-01T00:00:00Z","dateModified":"2023-04-01T17:09:13+05:30","author":{"@type":"Person","name":"Navendu Pottekkat"},"mainEntityOfPage":{"@type":"WebPage","@id":"https://navendu.me/stats/"},"publisher":{"@type":"Person","name":"Navendu Pottekkat","logo":{"@type":"ImageObject","url":"https://navendu.me/favicon.ico"}}}</script></head><body class=dark id=top><header class=header><nav class=nav><div class=logo><a href=https://navendu.me/ accesskey=h title="Navendu Pottekkat (Alt + H)">Navendu Pottekkat</a><div class=logo-switches></div></div><ul id=menu><li><a href=https://navendu.me/archives/ title=Archives><span>Archives</span></a></li><li><a href=https://navendu.me/categories/ title=Categories><span>Categories</span></a></li><li><a href=https://navendu.me/categories/daily-dose-of-pottekkat/ title="Daily Logs"><span>Daily Logs</span></a></li><li><a href=https://navendu.me/about/ title=About><span>About</span></a></li><li><a href=https://navendu.me/subscribe/ title=Subscribe><span>Subscribe</span></a></li></ul></nav></header><main class=main><article class=post-single><header class=post-header><h1 class=post-title>Stats</h1></header><div class=post-content><section class=last-run><blockquote><p><i>Last updated at 9:21 PM, 4th August 2023 (+0530)</i></p></blockquote></section><p>This page is a work in progress.</p><p>All the code and content of this website are publicly available. So should the statistics.</p><p>This page contains data and charts/insights from the data that I think you, as readers of my blog, would find interesting/relevant.</p><p>As mentioned in my <a href=/about/#ethics-statement>ethics statement</a>, this blog <a href=https://plausible.io/privacy-focused-web-analytics target=_blank>does not collect</a> personal data or personally identifiable information.</p><p>All data is from the past month (30 days) and will be updated daily.</p><section class=stats><h2 id=visitors-by-country>Visitors by Country<a hidden class=anchor aria-hidden=true href=#visitors-by-country>#</a></h2><p>It's always amazing to see people from around the world reading my blog. Most visitors come from
+India, United States of America, Germany, and Nigeria.</p><figure class=align-center><img loading=lazy src=/images/stats/visitors-by-country.png#center alt="Chart showing the source of visitors over last one month."><figcaption>Stats from the last 30 days<p>Last updated at 9:21 PM, 4th August 2023 (+0530)</p></figcaption></figure><p>Shoutout to <a href=https://www.linkedin.com/in/christy-m-thomas/>Christy</a>, an actual GIS Engineer, who helped me create the chart above.</p><h2 id=visitors-per-day>Visitors per Day<a hidden class=anchor aria-hidden=true href=#visitors-per-day>#</a></h2><p>446 people visited the
 blog on 8th July 2023. This is the
 highest number of daily visitors in the past month.</p><p>Out of them, 339 were here to
-read <a href=/posts/tiny-apisix-plugin/>this</a>.</p><figure class=align-center><img loading=lazy src=/images/stats/monthly-visitors.png#center alt="Chart showing visitors over last one month."><figcaption>Stats from the last 30 days<p>Last updated at 9:21 PM, 28th July 2023 (+0530)</p></figcaption></figure><h2 id=visitors-by-source>Visitors by Source<a hidden class=anchor aria-hidden=true href=#visitors-by-source>#</a></h2><p>Most people visited the site from the source: Google.</p><p>There is a lot of traffic from direct links. I should level up my link-tagging game.</p><figure class=align-center><img loading=lazy src=/images/stats/monthly-sources.png#center alt="Chart showing the source of visitors over last one month."><figcaption>Stats from the last 30 days<p>Last updated at 9:21 PM, 28th July 2023 (+0530)</p></figcaption></figure><p>What should I add next here? Send your suggestions to <a href=mailto:navendu@apache.org>navendu@apache.org</a></p></section></div></article></main><footer class=footer><span>This work by <a href=https://navendu.me/about/#about-me>Navendu Pottekkat</a></span>
+read <a href=/posts/tiny-apisix-plugin/>this</a>.</p><figure class=align-center><img loading=lazy src=/images/stats/monthly-visitors.png#center alt="Chart showing visitors over last one month."><figcaption>Stats from the last 30 days<p>Last updated at 9:21 PM, 4th August 2023 (+0530)</p></figcaption></figure><h2 id=visitors-by-source>Visitors by Source<a hidden class=anchor aria-hidden=true href=#visitors-by-source>#</a></h2><p>Most people visited the site from the source: Direct / None.</p><p>There is a lot of traffic from direct links. I should level up my link-tagging game.</p><figure class=align-center><img loading=lazy src=/images/stats/monthly-sources.png#center alt="Chart showing the source of visitors over last one month."><figcaption>Stats from the last 30 days<p>Last updated at 9:21 PM, 4th August 2023 (+0530)</p></figcaption></figure><p>What should I add next here? Send your suggestions to <a href=mailto:navendu@apache.org>navendu@apache.org</a></p></section></div></article></main><footer class=footer><span>This work by <a href=https://navendu.me/about/#about-me>Navendu Pottekkat</a></span>
 <span>is licensed under <a rel=license href=http://creativecommons.org/licenses/by-sa/4.0 target=_blank>CC BY-SA 4.0</a></span></footer><a href=#top aria-label="go to top" title="Go to Top (Alt + G)"><button class=top-link id=top-link type=button accesskey=g><svg xmlns="http://www.w3.org/2000/svg" viewBox="0 0 12 6" fill="currentcolor"><path d="M12 6H0l6-6z"/></svg></button></a>
 <script>let menu=document.getElementById('menu');menu&&(menu.scrollLeft=localStorage.getItem("menu-scroll-position"),menu.onscroll=function(){localStorage.setItem("menu-scroll-position",menu.scrollLeft)}),document.querySelectorAll('a[href^="#"]').forEach(a=>{a.addEventListener("click",function(b){b.preventDefault();var a=this.getAttribute("href").substr(1);window.matchMedia('(prefers-reduced-motion: reduce)').matches?document.querySelector(`[id='${decodeURIComponent(a)}']`).scrollIntoView():document.querySelector(`[id='${decodeURIComponent(a)}']`).scrollIntoView({behavior:"smooth"}),a==="top"?history.replaceState(null,null," "):history.pushState(null,null,`#${a}`)})})</script><script>var mybutton=document.getElementById("top-link");window.onscroll=function(){document.body.scrollTop>800||document.documentElement.scrollTop>800?(mybutton.style.visibility="visible",mybutton.style.opacity="1"):(mybutton.style.visibility="hidden",mybutton.style.opacity="0")}</script><script>document.querySelectorAll('pre > code').forEach(b=>{const c=b.parentNode.parentNode,a=document.createElement('button');a.classList.add('copy-code'),a.innerHTML='copy';function d(){a.innerHTML='copied!',setTimeout(()=>{a.innerHTML='copy'},2e3)}a.addEventListener('click',e=>{if('clipboard'in navigator){navigator.clipboard.writeText(b.textContent),d();return}const a=document.createRange();a.selectNodeContents(b);const c=window.getSelection();c.removeAllRanges(),c.addRange(a);try{document.execCommand('copy'),d()}catch(a){}c.removeRange(a)}),c.classList.contains("highlight")?c.appendChild(a):c.parentNode.firstChild==c||(b.parentNode.parentNode.parentNode.parentNode.parentNode.nodeName=="TABLE"?b.parentNode.parentNode.parentNode.parentNode.parentNode.appendChild(a):b.parentNode.appendChild(a))})</script><script>for(var els=document.getElementsByClassName("highlight"),i=0,title,code,newNode;i<els.length;i++)title=els[i].title,code=els[i].firstElementChild.firstElementChild,title.length&&(newNode=document.createElement("div"),newNode.textContent=title,newNode.classList.add("highlight-title"),code.parentNode.insertBefore(newNode,code))</script></body></html>
